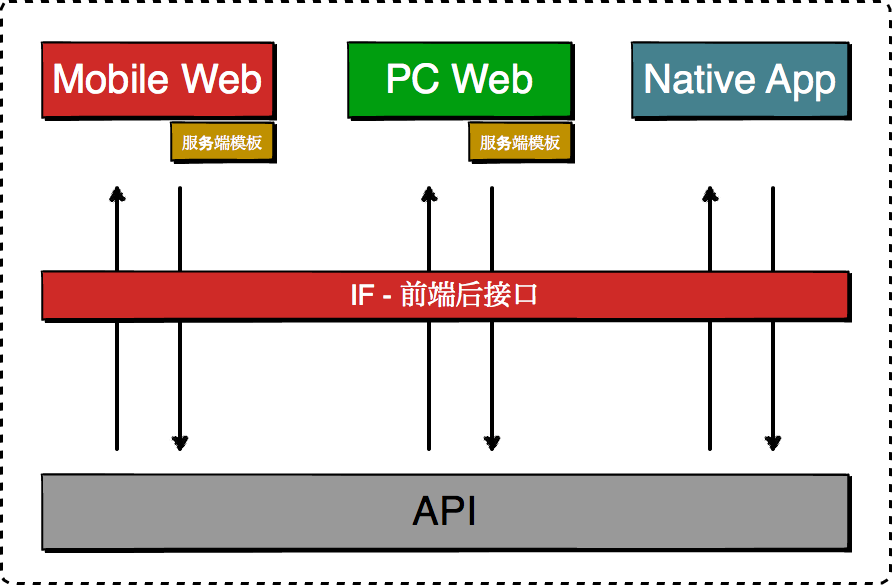
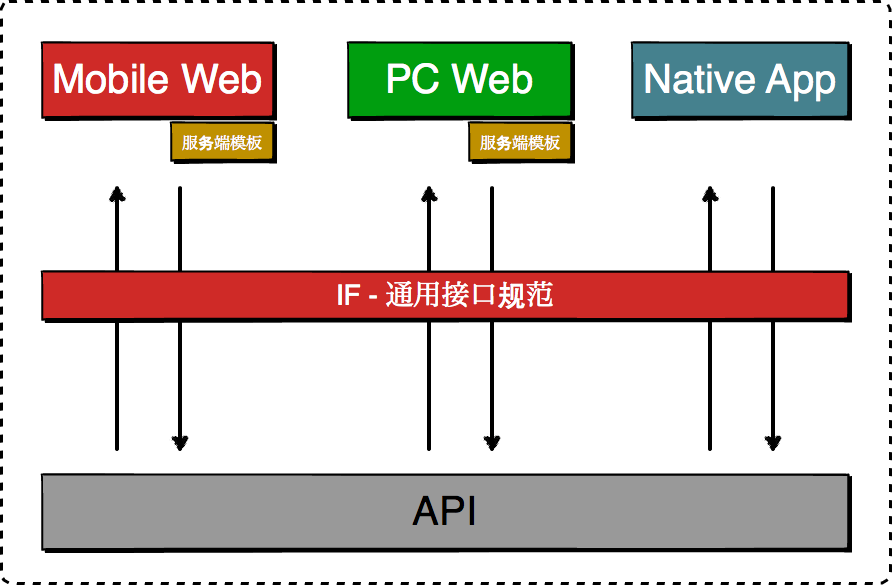
if pic

Changed region(s): [[0.3632, 0.4615, 0.6357, 0.5231]]

diff --git a/index.html b/index.html
@@ -43,10 +43,10 @@
         <h2>重要成果</h2>
         <ol>
             <li>
-                <a href="demo/d2/index.html">移动优先的跨终端Web</a> @<a href="http://www.w3ctech.com/event/32">W3CTECH 2013</a>
+                <a href="demo/d2/index.html">移动优先的跨终端 Web</a> @<a href="http://www.w3ctech.com/event/32">W3CTECH 2013</a>
             </li>
             <li>
-                <a href="demo/d2/index.html">移动优先的跨终端Web</a> @<a
+                <a href="demo/d2/index.html">移动优先的跨终端 Web</a> @<a
                     href="http://adc.alibabatech.org/carnival/schedule#14th#ued1">D2 2013</a>
             </li>
             <li>

diff --git a/demo/cew-w3ctech-1311/index.html b/demo/cew-w3ctech-1311/index.html
@@ -293,7 +293,7 @@
 <section data-markdown>
     ## IF：结构
 
-    前后端接口（<a href="javascript:;">IF</a>: <a href="javascript:;">I</a>nter<a href="javascript:;">F</a>ace）
+    通用接口（<a href="javascript:;">IF</a>: <a href="javascript:;">I</a>nter<a href="javascript:;">F</a>ace）
     <!--TODO 加入vm层-->
     <img src="img/if.png" height="500"/>
 </section>
